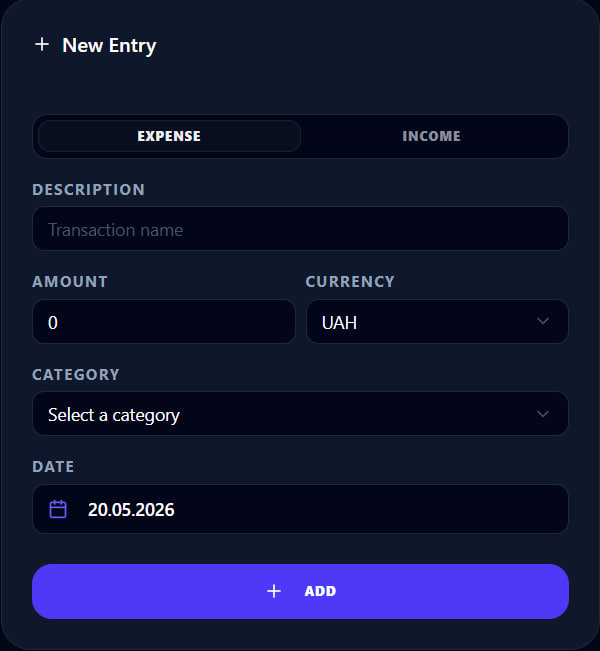
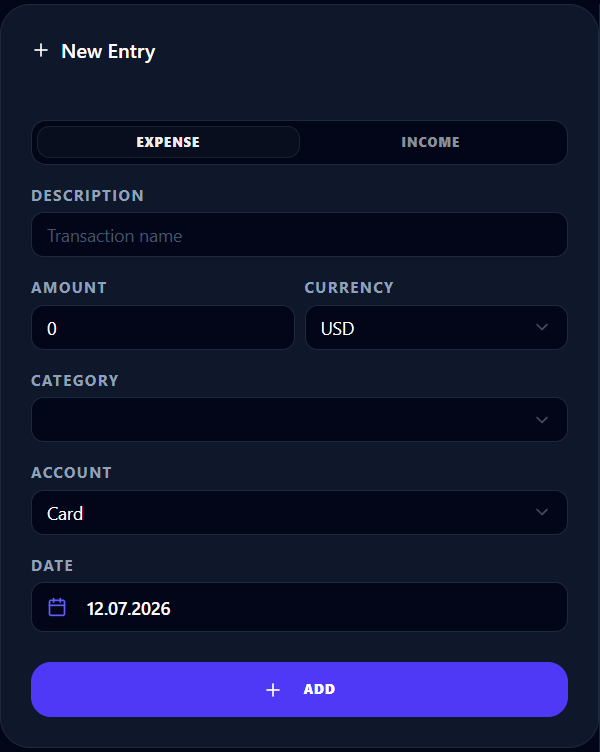
docs: update README (add chapter about accounts)

diff --git a/README.md b/README.md
@@ -1,6 +1,6 @@
 # FinFlow — Full-Stack Personal Finance Manager
 
-FinFlow is a robust, high-performance personal finance management system designed for modern personal accounting. It allows users to track incomes and expenses, manage flexible categories, and analyze financial health with real-time multi-currency conversion and smart data processing.
+FinFlow is a robust, high-performance personal finance management system designed for modern personal accounting. It allows users to track incomes and expenses, manage flexible categories and accounts, and analyze financial health with real-time multi-currency conversion and smart data processing.
 
 > **Production Status**: The project has successfully passed the staging phase and is fully deployed in a secure production environment. Active support, monitoring, and regular architectural improvements are performed 24/7.
 
@@ -33,6 +33,11 @@ FinFlow secured **1st Place** at a regional college web development and programm
 - **Secure Authentication**: JWT-based system with Access & Refresh token rotation, Argon2 password hashing, and built-in rate limiting (SlowAPI).
 - **Two-Step Email Verification**: Registration requires email confirmation via a 6-digit one-time code (valid for 10 minutes), delivered through the Resend API. Disposable and temporary email addresses are blocked at the schema level.
 - **Real-time Multi-currency**: Automatic exchange rate synchronization (via NBU API) with Redis caching. View your balance in **USD, EUR, UAH, PLN (Zloty), RUB, or CZK**.
+- **Accounts Management**: Flexible multi-account system to organize finances by wallet, card, cash, or savings.
+    - Two default accounts are automatically created for every new user upon registration.
+    - Free-tier users are limited to 2 accounts: one can be deleted (with data reassigned/removed accordingly), while the other is protected — the app enforces at least one active account at all times.
+    - Accounts can be renamed at any time.
+    - A custom icon is selected once, at account creation time; icon changes after creation are not yet supported (planned for a future release).
 - **Financial Analytics**:
     - Summary dashboards for Balance, Income, and Expenses.
     - Average daily spending and income calculation for specific periods.
@@ -54,12 +59,21 @@ A comprehensive overview of your current balance, incomes, and expenses, automat
 Profile where you can change your account information.
 ![Profile](assets/profile.jpg)
 
+### Accounts
+Manage your accounts (cards, cash, savings, etc.) from a dedicated section. Every user starts with 2 default accounts; free-tier users can rename an account or delete one (a single active account is always required and cannot be removed). A custom icon is chosen when creating a new account.
+
+![Accounts](assets/accounts.png)
+
+Available account icons to choose from during creation:
+
+![Account Icons](assets/account_icons.png)
+
 ### Analytics & Visualizations
 Dynamic charts and diagrams breaking down expense categories and balance dynamics over time.
 ![Analytics Diagrams](assets/all_diagram.jpg)
 
 ### Transaction Management
-Intuitive modals for quick entry creation with category and currency selection.
+Intuitive modals for quick entry creation with category, account, and currency selection.
 ![Create Transaction](assets/create_transaction.jpg)
 
 ### Transparent Backend Logging
@@ -89,7 +103,7 @@ The backend features a strict, time-zone-aware logging system capturing everythi
 Registration is a two-step process designed to ensure account validity:
 
 1. **Step 1 — Sign Up**: The user submits a username, email, and password. The backend validates the input (password: 12–64 characters, no disposable email domains) and sends a 6-digit verification code to the provided email via Resend.
-2. **Step 2 — Email Verification**: The user enters the code received in the email. Upon successful verification, the account is created and the user is automatically signed in via HttpOnly cookie-based tokens.
+2. **Step 2 — Email Verification**: The user enters the code received in the email. Upon successful verification, the account is created (along with 2 default financial accounts) and the user is automatically signed in via HttpOnly cookie-based tokens.
 
 Password reset is also fully supported — a time-limited reset link (valid 10 minutes) is sent to the user's email and processed on a dedicated `/reset-password` page.
 
